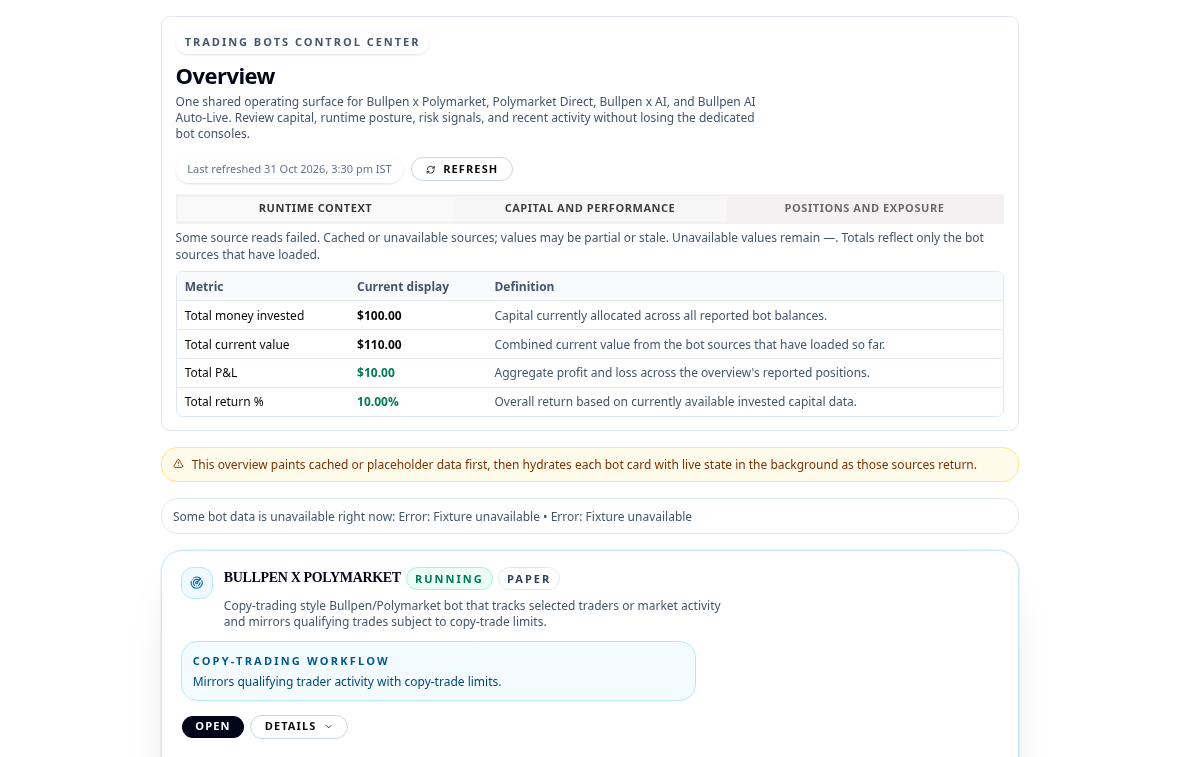
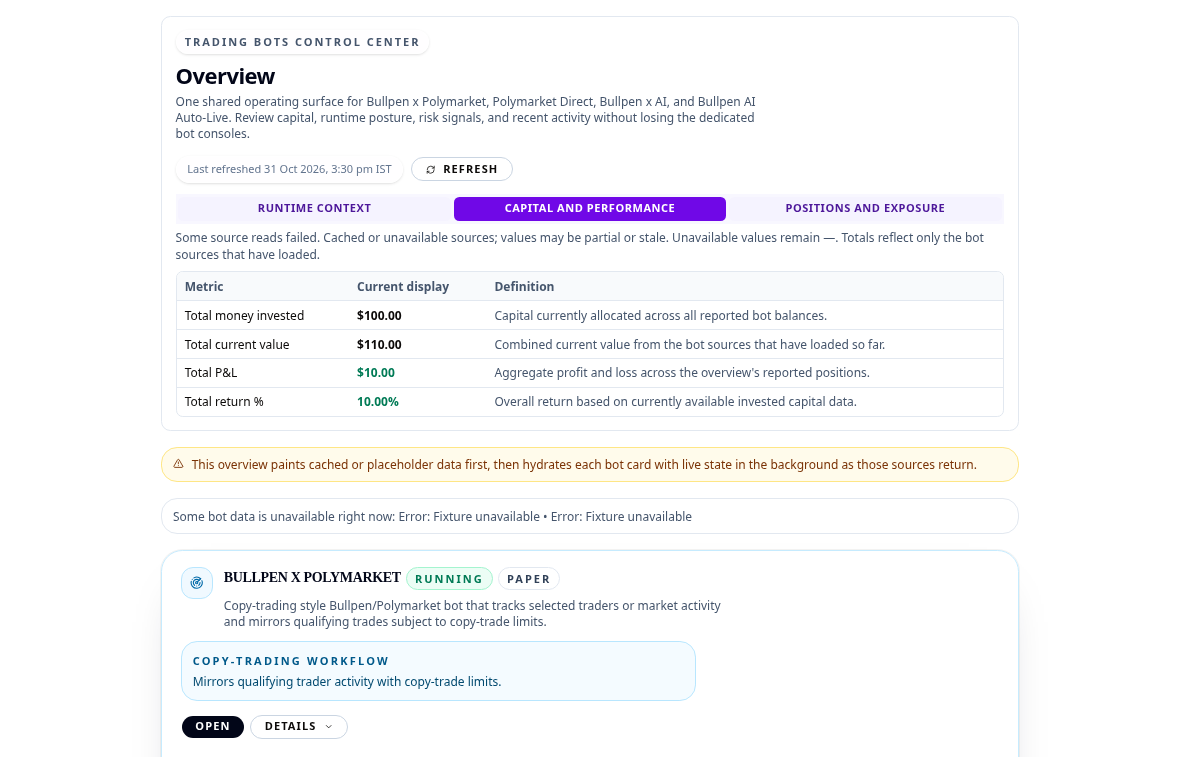
Reconcile bot overview with native visual review requirements

Changed region(s): [[0.3661, 0.2431, 0.6102, 0.3038], [0.6712, 0.2431, 0.7932, 0.3038], [0.2136, 0.2431, 0.3051, 0.3038]]

diff --git a/frontend/app/console/trading-bots/_components/TradingBotsOverviewPage.tsx b/frontend/app/console/trading-bots/_components/TradingBotsOverviewPage.tsx
@@ -45,6 +45,8 @@ import {
   type TradingBotsOverviewDetails,
 } from "./tradingBotsOverviewData";
 
+const SUMMARY_TAB_CLASS = "rounded-md bg-violet-50 text-violet-900 data-active:bg-violet-700 data-active:text-white! dark:bg-violet-950 dark:text-violet-200 dark:data-active:bg-violet-600 dark:data-active:text-white!";
+
 const OVERVIEW_CACHE_KEY = "investment-engine:trading-bots-overview:v3";
 const PREFERRED_OVERVIEW_TIMEOUT_MS = 2_000;
 const FAST_BOT_TIMEOUT_MS = 2_500;
@@ -931,10 +933,10 @@ export function TradingBotsOverviewPage() {
               Trading Bots Control Center
             </div>
             <div>
-              <h1 className="text-3xl font-semibold tracking-tight text-slate-950">
+              <h1 className="text-3xl font-semibold tracking-tight text-slate-950 dark:text-slate-50">
                 Overview
               </h1>
-              <p className="mt-2 max-w-4xl text-sm leading-6 text-slate-600">
+              <p className="mt-2 max-w-4xl text-sm leading-6 text-slate-600 dark:text-slate-300">
                 One shared operating surface for Bullpen x Polymarket, Polymarket Direct, Bullpen x AI, and Bullpen AI Auto-Live. Review capital, runtime posture, risk signals, and recent activity without losing the dedicated bot consoles.
               </p>
             </div>
@@ -961,10 +963,10 @@ export function TradingBotsOverviewPage() {
         </div>
 
         <Tabs value={summaryView} onValueChange={setSummaryView} className="mt-4">
-          <TabsList aria-label="Overview sections" className="grid h-auto! w-full grid-cols-1 sm:grid-cols-3">
-            <TabsTrigger ref={runtimeTabRef} value="runtime">Runtime context</TabsTrigger>
-            <TabsTrigger value="capital">Capital and performance</TabsTrigger>
-            <TabsTrigger value="exposure">Positions and exposure</TabsTrigger>
+          <TabsList aria-label="Overview sections" className="grid h-auto! w-full grid-cols-1 gap-1 bg-violet-50/70 dark:bg-violet-950/50 sm:grid-cols-3">
+            <TabsTrigger ref={runtimeTabRef} value="runtime" className={SUMMARY_TAB_CLASS}>Runtime context</TabsTrigger>
+            <TabsTrigger value="capital" className={SUMMARY_TAB_CLASS}>Capital and performance</TabsTrigger>
+            <TabsTrigger value="exposure" className={SUMMARY_TAB_CLASS}>Positions and exposure</TabsTrigger>
           </TabsList>
           {[
             { id: "runtime", title: "Runtime context", labels: ["Bots running", "Bots paused/stopped", "Highest risk bot", "Last updated"] },

diff --git a/docs/bots-overview-runtime.md b/docs/bots-overview-runtime.md
@@ -1,5 +1,7 @@
 # BOTS-OVERVIEW-RUNTIME
 
[1 lines of base64/hex data omitted]
+
 Based on main `1089c6f1c5dc01c6cb41be1da7b45e9e7a8b805b`. Scope is the shared Bot Overview summary only. No API, calculation, scan, provider, execution, console routing, permission, or global density changes.
 
 ## Coverage
@@ -28,15 +30,48 @@ The report's “lower content not certified” text is an audit limitation, not 
 - `node --test tests/trading-bots-passive-summary.test.mjs tests/trading-bots-navigation.test.mjs` — 10 passed.
 - `PLAYWRIGHT_CHROMIUM_EXECUTABLE=/usr/bin/chromium BOTS_EVIDENCE_DIR=/tmp/bots-evidence node scripts/bots-overview-offline-playwright.mjs`
 
-Browser fixture renders the actual component and shared CSS/Tabs. API reads are local promises. The existing UniversalPolymarketScan is stubbed out because it is unchanged and outside this task. External requests are blocked and asserted absent. Six cases: loading, populated summary, empty summary (retains four unknown bots), failed reads, partial summary, and stale source timestamp. All three views, 1180×757 at default scale, 390×844, no page overflow or tab/content overlap, arrow-key tabs, return/focus, repeated details open/close, four console links and browser back navigation are checked. Loaded fixture asserts $400 invested from four $100 balances. Stale source date remains January; no new freshness threshold is invented.
+Browser fixture renders the actual component and shared CSS/Tabs. API reads are local promises. The existing UniversalPolymarketScan is stubbed out because it is unchanged and outside this task. External requests are blocked and asserted absent. Seven cases: loading, populated summary, unavailable summary, empty summary (retains four unknown bots), failed reads, partial summary, and stale source timestamp. All three views, 1180×757 at default scale, 390×844, no page overflow or tab/content overlap, arrow-key tabs, return/focus, repeated details open/close, all four exact console destinations and browser back navigation are checked. Failed Refresh is disabled in flight and preserves the selected capital view plus loaded $400 total. Active-tab white text is checked after its transition. Loaded fixture asserts $400 invested from four $100 balances. Stale source date remains January; no new freshness threshold is invented.
 
-Screenshots are fixture-only, containing no account data. [Before desktop](evidence/bots-overview-runtime/before-loading-desktop.png), [runtime](evidence/bots-overview-runtime/loaded-Runtime.png), [capital](evidence/bots-overview-runtime/loaded-Capital.png), [positions](evidence/bots-overview-runtime/loaded-Positions.png), [narrow](evidence/bots-overview-runtime/loaded-narrow.png). The evidence directory includes all three views and narrow capture for each of six states.
+Tabs now use the source-reviewed purple/white active treatment and pale lavender inactive treatment, with dark-theme variants and a neutral content surface. All changes remain local to the overview; no global density or shared Tabs change.
+
+Screenshots are fixture-only, containing no account data. [Before desktop](evidence/bots-overview-runtime/before-loading-desktop.png), [runtime](evidence/bots-overview-runtime/loaded-Runtime.png), [capital](evidence/bots-overview-runtime/loaded-Capital.png), [positions](evidence/bots-overview-runtime/loaded-Positions.png), [narrow](evidence/bots-overview-runtime/loaded-Capital-narrow.png). The evidence directory includes all three views at desktop and narrow for each of seven states, plus loaded dark-theme desktop captures (46 images total). Desktop captures are 1180×757 at scroll origin; narrow captures show the complete summary surface rendered in a 390×844 viewport so every definition is independently reviewable. [Runtime narrow](evidence/bots-overview-runtime/loaded-Runtime-narrow.png), [capital narrow](evidence/bots-overview-runtime/loaded-Capital-narrow.png), [positions narrow](evidence/bots-overview-runtime/loaded-Positions-narrow.png).
 
 ## Limits and coordinator follow-up
 
-- Source PDF bytes could not be materialized. The current Library helper returned `download failed` for original `libfile_69395435517c8191aa25b189d62b27a5` and reupload `libfile_e735fdf1e9f48191b47cf49a5af5b476`, with explicit consumer-local destination `/workspace/bots-design/source.pdf`. No bytes were installed, so SHA256 cannot be verified. Supported Library read returned page text for 1–13, 131–136 and 148, but images were opaque asset pointers rather than inspectable pixels. Therefore actual source page-image comparison remains blocked; no image URLs were guessed or fetched. Separate task screenshot is unnecessary to identify this resolved scope and was not downloaded.
+- Source PDF bytes could not be materialized. The current Library helper returned `download failed` for original `libfile_69395435517c8191aa25b189d62b27a5` and reupload `libfile_e735fdf1e9f48191b47cf49a5af5b476`, with explicit consumer-local destination `/workspace/bots-design/source.pdf`. No bytes were installed, so SHA256 cannot be verified. Supported Library read returned page text for 1–13, 131–136 and 148, but images were opaque asset pointers rather than inspectable pixels. Direct source page-image comparison remains unavailable to this implementer; reconciliation uses the native source reviewer’s actual-pixel requirements supplied by the coordinator. No image URLs were guessed or fetched. Separate task screenshot is unnecessary to identify this resolved scope and was not downloaded.
 - Existing session cache write effect runs before the cache-read effect, overwriting a pre-seeded snapshot on mount. Observed with a local stale-cache fixture; left unchanged because this task is visual reorganization. Stale-source rendering is tested separately. Coordinator should track cache restoration as a separate behavior fix.
 - Existing paused/stopped definition mentions error/setup-needed states while the current calculation counts paused and stopped only. Both original wording and calculation are preserved per task constraints; coordinator should reconcile that separately.
 - Full authenticated production shell and live console navigation are not exercised; no production refresh or operational action was triggered. No dialog was introduced; existing detail disclosures were exercised.
 - Shared-file conflict surface is only `frontend/app/console/trading-bots/_components/TradingBotsOverviewPage.tsx`. No shared global component/styles edited.
 - Not merged or deployed. Coordinator owns serial integration and release.
+
+## Native reviewer reconciliation checklist
+
+- [x] Compact wide `max-w-7xl` container retained; neutral header replaces gradient prominence.
+- [x] Three separate accessible views; Runtime context is default; selected purple/white and inactive lavender styling, light/dark variants.
+- [x] Shared Trading Bots Control Center / Overview header retained.
+- [x] All four identities remain in scope text and dedicated cards, including existing console destinations.
+- [x] Last refreshed binds existing generated timestamp with IST formatter, never the source example date.
+- [x] Running count, four-bot denominator and paused/stopped count bind existing calculations.
+- [x] Existing paused/stopped definition retains paused, stopped, error and setup-needed wording; existing calculation mismatch disclosed above.
+- [x] Refresh remains passive, disabled while refreshing; selected view and loaded values survive failed refresh.
+- [x] Clear warning beside counts: displayed counts do not establish runtime or authorize a worker.
+- [x] Capital table preserves Metric / Current display / Definition columns.
+- [x] Total money invested and complete original definition preserved.
+- [x] Total current value and complete original definition preserved.
+- [x] Total P&L and complete original definition preserved.
+- [x] Total return % and complete original definition preserved.
+- [x] Unknown financial values remain dashes; source availability remains beside each group.
+- [x] Positions table preserves the same three columns.
+- [x] Total active positions and complete original definition preserved.
+- [x] Total trades today and complete original definition preserved.
+- [x] Live exposure uses actual existing definition: exposure on live-read or live-trading bots.
+- [x] Dry-run exposure uses actual existing definition: paper, dry-run or analysis-only workflows.
+- [x] Return to Runtime context selects and focuses the runtime tab.
+- [x] Additional Highest risk bot / Last updated, lower cards, guardrails, history and links retained.
+- [x] Audit certification notices, report header/footer, severity and NOT DEPLOYED badges excluded from product chrome.
+- [x] Seven source states; all three views at 1180×757 and 390×844; narrow tabs do not overlap content and page does not overflow.
+- [x] Keyboard arrows, return focus, repeated details open/close, back navigation, exact console destinations covered.
+- [x] API calls, calculations, permissions, execution safeguards unchanged; browser fixture blocks external requests.
+- [ ] Full authenticated shell and actual destination-page execution remain unverified; unchanged scanner is stubbed, no production or operational action performed.
+- [ ] Independent visual comparison of these screenshot artifacts against source pixels remains coordinator/reviewer work.
